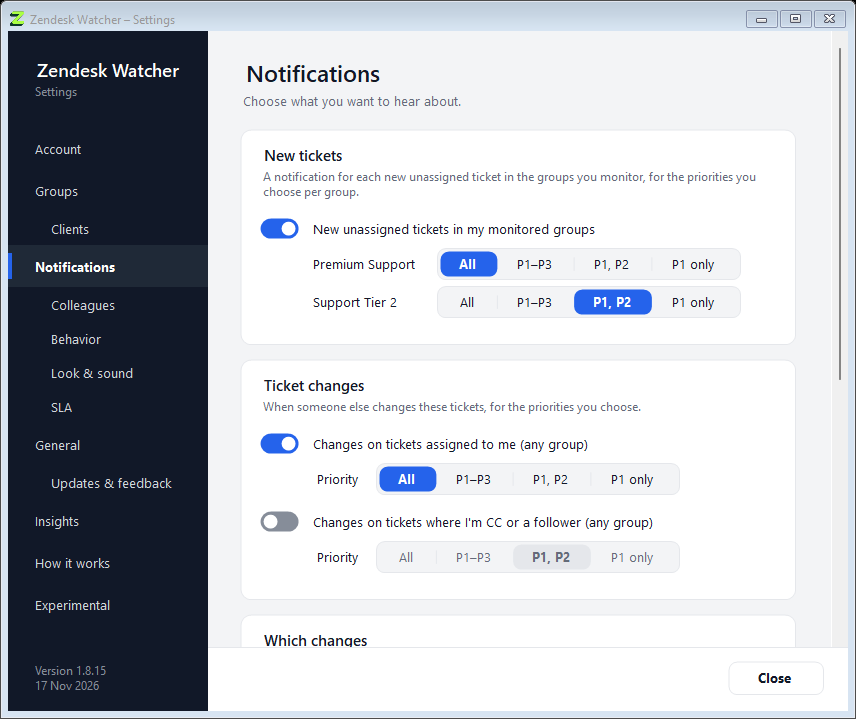
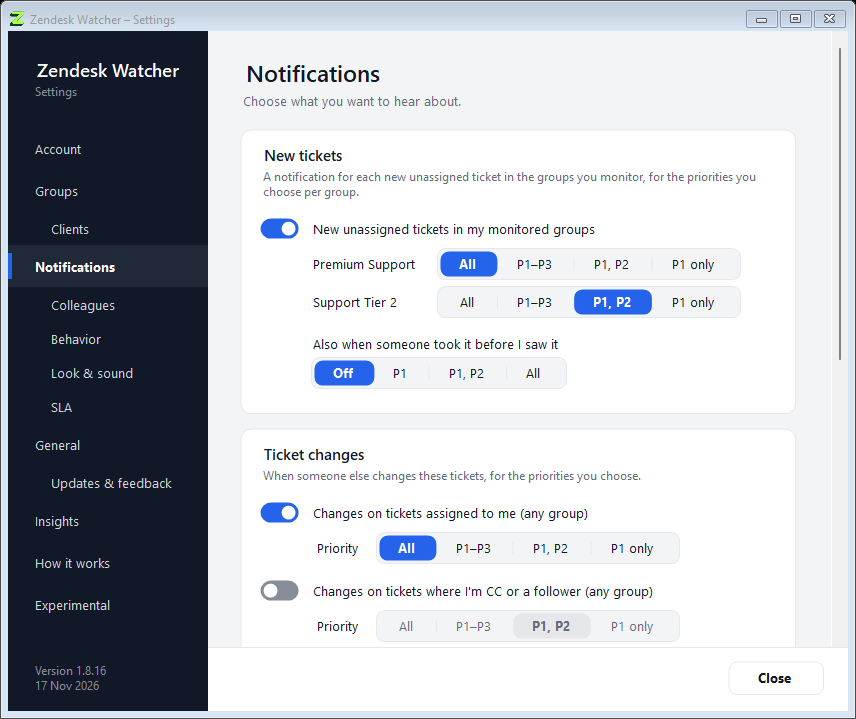
1.8.17: Tickets taken before the app saw them
- Notifications → New tickets: "Also when someone took it before I saw it" (Off · P1 · P1, P2 · All,
  off by default). Each check also searches recently created, already assigned tickets per group;
  the audit history tells who took it and how fast (created-assigned tickets are skipped), shown as
  "Already taken" with "· solved"/"· closed" when done.
- Muted clients stay quiet, Important ones always come; working hours apply. How it works, README,
  GUIDE and the Notifications screenshot updated.

Changed region(s): [[0.3037, 0.459, 0.7593, 0.9179]]

diff --git a/Core/Tracking/TicketWatcher.cs b/Core/Tracking/TicketWatcher.cs
@@ -198,6 +198,7 @@ public sealed partial class TicketWatcher(Settings settings, ZendeskClient zende
         var now = DateTimeOffset.UtcNow;
         var total = 0;
         var byGroup = new List<(WatchedGroup Group, List<Ticket> Tickets)>();
+        var justBaselined = new HashSet<long>();
         ShowedAlreadyWaiting = false;
 
         // Search finds the candidates, but its index can be stale for hours: a ticket assigned long ago may still
@@ -227,6 +228,8 @@ public sealed partial class TicketWatcher(Settings settings, ZendeskClient zende
             // All are recorded as seen (so ticking a client again later doesn't report its old tickets as new), but
             // muted clients (and "only urgent" ones below High) neither notify nor count (Clients page).
             var isBaseline = _state.BaselinedGroups.Add(group.Id);
+            if (isBaseline)
+                justBaselined.Add(group.Id);
             var fresh = tickets.Where(t => !_state.SeenUnassigned.ContainsKey(t.Id)).OrderBy(t => t.CreatedAt).ToList();
             foreach (var ticket in tickets)
                 _state.SeenUnassigned[ticket.Id] = now;
@@ -296,14 +299,73 @@ public sealed partial class TicketWatcher(Settings settings, ZendeskClient zende
                 await ShowNewTicketAsync(ticket, group, ct);
         }
 
+        await CheckTakenQuicklyAsync(justBaselined, now, ct);
+
         // Forget tickets that have not been unassigned for a while, so they notify again if they come back.
         foreach (var id in _state.SeenUnassigned.Where(kv => now - kv.Value > ForgetUnassignedAfter).Select(kv => kv.Key).ToList())
             _state.SeenUnassigned.Remove(id);
+        foreach (var id in _state.TakenQuickly.Where(kv => now - kv.Value > ForgetUnassignedAfter).Select(kv => kv.Key).ToList())
+            _state.TakenQuickly.Remove(id);
         foreach (var id in _state.QuietPriority.Keys.Where(id => !_state.SeenUnassigned.ContainsKey(id)).ToList())
             _state.QuietPriority.Remove(id);
 
         UnassignedCount = total;
         _unassigned = byGroup;
+    }
+
+    /// <summary>How far back to look for tickets someone took between two checks (the search index lags a few minutes).</summary>
+    private static readonly TimeSpan TakenQuicklyWindow = TimeSpan.FromMinutes(30);
+
+    /// <summary>
+    /// New tickets someone took between two checks, before they were ever seen unassigned: for the priorities chosen under
+    /// Notifications → New tickets, an "Already taken" notification anyway, saying who took it and how fast (for managers
+    /// who don't want to miss a P1). One search per group, plus each candidate's history, only while it's switched on.
+    /// Muted clients stay quiet, important ones always come; my working hours count as for new tickets.
+    /// </summary>
+    private async Task CheckTakenQuicklyAsync(IReadOnlySet<long> justBaselined, DateTimeOffset now, CancellationToken ct)
+    {
+        if (settings.TakenQuicklyPriorities.Count == 0 || !settings.NotifyUnassigned)
+            return;
+        var since = now - TakenQuicklyWindow;
+        bool? offWork = null;
+        foreach (var group in settings.WatchedGroups.Where(g => !g.IsNoGroup && !justBaselined.Contains(g.Id)))
+        {
+            List<Ticket> found;
+            try
+            {
+                found = await zendesk.GetAssignedTicketsCreatedSinceAsync(group.Id, since, ct);
+            }
+            catch (HttpRequestException ex)
+            {
+                Log.Error($"Could not look for quickly taken tickets {group.Describe()}", ex);
+                continue;
+            }
+            foreach (var ticket in found.Where(t => t.CreatedAt > since && t.AssigneeId is not null && t.GroupId == group.Id &&
+                                                    !_state.SeenUnassigned.ContainsKey(t.Id) && !_state.TakenQuickly.ContainsKey(t.Id)))
+            {
+                _state.TakenQuickly[ticket.Id] = now; // looked at once, whatever comes of it
+                var important = IsImportant(ticket);
+                if (!important && (!TicketRules.MatchesPriority(ticket.Priority, settings.TakenQuicklyPriorities) ||
+                                   !TicketRules.IsWantedClient(ticket, ClientMode(ticket))))
+                    continue;
+                if (!important && settings.OnlyNotifyDuringMyHours && (offWork ??= await IAmOffWorkAsync(ct)))
+                    continue;
+
+                // Its history: when it got its first assignee, and from whom. Created assigned: nobody took it.
+                var audits = await zendesk.GetAuditsSinceAsync(ticket.Id, ticket.CreatedAt.AddSeconds(-1), ct);
+                if (TicketRules.FirstAssignment(audits) is not { } taken)
+                    continue;
+                var assignee = await zendesk.GetUserNameAsync(taken.AssigneeId, ct);
+                var assigner = taken.ByRule || taken.AuthorId == taken.AssigneeId ? null : await zendesk.GetUserNameAsync(taken.AuthorId, ct);
+                Log.Info($"Ticket #{ticket.Id} {group.Describe()} was taken before it was seen unassigned ({ticket.Priority}, after {(taken.At - ticket.CreatedAt).TotalMinutes:0} min)");
+                // Solving needs an assignee, so a ticket solved or closed straight away is found here too: the line says so.
+                var body = await CreatedLineAsync(ticket, ct) + "\n" + TicketRules.TakenLine(assignee, assigner, taken.ByRule, taken.At - ticket.CreatedAt) +
+                           (ticket.IsOpen ? "" : $" · {ticket.Status}");
+                Show(await WithClientAsync(new NotificationContent(NotificationKind.NewTicket, "Already taken",
+                    $"#{ticket.Id} {TextCleanup.Plain(ticket.Subject)}", body, ticket.Id, ticket.Priority, GroupLabel(group))
+                    { EventTime = ticket.CreatedAt, IsTicketNotification = true }, ticket, group, ct));
+            }
+        }
     }
 
     private async Task ShowNewTicketAsync(Ticket ticket, WatchedGroup group, CancellationToken ct, string heading = "New ticket")

diff --git a/SettingsPages/NotificationsPage.cs b/SettingsPages/NotificationsPage.cs
@@ -30,6 +30,11 @@ internal sealed class NotificationsPage : SettingsPage
     };
     private readonly GroupsPage _groups;
 
+    /// <summary>The priorities that notify even when someone took the ticket before the app saw it unassigned.</summary>
+    private static readonly (string Label, string[] Priorities)[] TakenQuicklyChoices =
+        [("Off", []), ("P1", ["urgent"]), ("P1, P2", ["urgent", "high"]), ("All", Settings.AllPriorities)];
+    private readonly ChoicePills _takenQuickly = new([.. TakenQuicklyChoices.Select(c => c.Label)]) { AccessibleName = "Also when someone took it before I saw it" };
+
     /// <summary>Groups with fewer priorities than all, as chosen here (also for groups not shown right now).</summary>
     private Dictionary<long, List<string>> _newPriorities = [];
 
@@ -41,6 +46,12 @@ internal sealed class NotificationsPage : SettingsPage
             "priorities you choose per group.", Kit.CardWidth);
         unassigned.Body.Controls.Add(_notifyUnassigned);
         unassigned.Body.Controls.Add(_groupPriorities);
+        // Tickets someone took between two checks (never seen unassigned): off for most, P1 for managers.
+        var takenLabel = Theme.Label("Also when someone took it before I saw it");
+        takenLabel.Margin = new Padding(50, 8, 0, 0);
+        _takenQuickly.Margin = new Padding(50, 4, 0, 6);
+        unassigned.Body.Controls.Add(takenLabel);
+        unassigned.Body.Controls.Add(_takenQuickly);
         Panel.Controls.Add(unassigned);
 
         var mine = new Card("Ticket changes", "When someone else changes these tickets, for the priorities you choose.", Kit.CardWidth);
@@ -83,6 +94,7 @@ internal sealed class NotificationsPage : SettingsPage
         _trackMine.CheckedChanged += (_, _) => UpdateChangeTypes();
         _trackCc.CheckedChanged += (_, _) => UpdateChangeTypes();
         _notifyUnassigned.CheckedChanged += (_, _) => UpdateChangeTypes();
+        _takenQuickly.SelectedIndexChanged += (_, _) => Changed();
         _myPriorities.Changed += Changed;
         _ccPriorities.Changed += Changed;
         _myDays.Changed += Changed;
@@ -104,6 +116,9 @@ internal sealed class NotificationsPage : SettingsPage
         _priority.Checked = settings.NotifyPriorityChanges;
         _automatic.Checked = settings.NotifyAutomaticChanges;
         _newPriorities = settings.NewTicketPriorities.ToDictionary(kv => kv.Key, kv => kv.Value.ToList());
+        // By the lowest priority in the list, like the other priority choices (none: Off).
+        var taken = settings.TakenQuicklyPriorities;
+        _takenQuickly.SelectedIndex = taken.Count == 0 ? 0 : taken.Contains("low") || taken.Contains("normal") ? 3 : taken.Contains("high") ? 2 : 1;
         ShowGroupPriorities();
         _myPriorities.Selected = settings.MyTicketPriorities;
         _ccPriorities.Selected = settings.CcTicketPriorities;
@@ -130,6 +145,7 @@ internal sealed class NotificationsPage : SettingsPage
         // Only the monitored groups' choices are kept (one unticked and ticked again starts at all priorities).
         var monitored = _groups.MonitoredGroups().Select(g => g.Id).ToHashSet();
         s.NewTicketPriorities = _newPriorities.Where(kv => monitored.Contains(kv.Key)).ToDictionary(kv => kv.Key, kv => kv.Value.ToList());
+        s.TakenQuicklyPriorities = [.. TakenQuicklyChoices[_takenQuickly.SelectedIndex].Priorities];
         s.MyTicketPriorities = _myPriorities.Selected;
         s.CcTicketPriorities = _ccPriorities.Selected;
         s.OnlyNotifyDuringMyHours = _onlyMyHours.Checked;
@@ -190,6 +206,7 @@ internal sealed class NotificationsPage : SettingsPage
 
     private void UpdateChangeTypes()
     {
+        _takenQuickly.Enabled = _notifyUnassigned.Checked;
         foreach (var (_, choice) in _groupChoices)
             choice.Enabled = _notifyUnassigned.Checked;
         foreach (var box in new[] { _replies, _notes, _status, _assignment, _priority, _automatic })

diff --git a/tests/ZendeskWatcher.Tests/Fakes.cs b/tests/ZendeskWatcher.Tests/Fakes.cs
@@ -91,6 +91,27 @@ internal sealed partial class FakeZendesk : IZendeskSession
         return ticket;
     }
 
+    /// <summary>
+    /// A ticket that came in <paramref name="minutesAgo"/> minutes ago in group 10 and that <paramref name="by"/> assigned to
+    /// <paramref name="to"/> a minute later, before any check saw it unassigned (with its history). With
+    /// <paramref name="createdAssigned"/> it had its assignee from the start.
+    /// </summary>
+    public Ticket AddTakenQuickly(long id, string priority, long by, long to, int minutesAgo = 3, bool createdAssigned = false)
+    {
+        var created = DateTimeOffset.UtcNow.AddMinutes(-minutesAgo);
+        var ticket = new Ticket { Id = id, Subject = "Site down", Status = "open", Priority = priority, GroupId = 10, AssigneeId = to, CreatedAt = created, UpdatedAt = created.AddMinutes(1) };
+        Tickets[id] = ticket;
+        var create = new AuditEvent { Type = "Create", FieldName = "assignee_id", Value = createdAssigned ? JsonSerializer.SerializeToElement(to.ToString()) : null };
+        Audits[id] = [new Audit { Id = 1, AuthorId = by, CreatedAt = created, Events = [create] }];
+        if (!createdAssigned)
+            Audits[id].Add(new Audit
+            {
+                Id = 2, AuthorId = by, CreatedAt = created.AddMinutes(1),
+                Events = [new AuditEvent { Type = "Change", FieldName = "assignee_id", PreviousValue = null, Value = JsonSerializer.SerializeToElement(to.ToString()) }]
+            });
+        return ticket;
+    }
+
     /// <summary>An open ticket assigned to <paramref name="assignee"/> (me by default).</summary>
     public Ticket AddAssigned(long id, string? priority, long? assignee = null, string subject = "Something broke")
     {
@@ -205,6 +226,11 @@ internal sealed partial class FakeZendesk : IZendeskSession
         if (AssigneeQuery().Match(query) is { Success: true } assignee) // Colleagues: an agent's recently updated tickets
             return Tickets.Values.Where(t => t.AssigneeId == long.Parse(assignee.Groups[1].Value)).OrderByDescending(t => t.UpdatedAt).ToList();
         var match = GroupQuery().Match(query);
+        if (query.Contains("-assignee:none") && CreatedQuery().Match(query) is { Success: true } created && match.Success) // tickets taken quickly
+        {
+            var since = DateTimeOffset.Parse(created.Groups[1].Value, System.Globalization.CultureInfo.InvariantCulture);
+            return Tickets.Values.Where(t => t.AssigneeId is not null && t.CreatedAt > since && t.GroupId == long.Parse(match.Groups[1].Value)).ToList();
+        }
         if (query.Contains("created>") && match.Success) // Settings → Groups → Clients: a group's recent tickets
             return Tickets.Values.Where(t => t.GroupId == (match.Groups[1].Value == "none" ? null : long.Parse(match.Groups[1].Value))).ToList();
         if (query.Contains("-assignee:none") && match.Success) // Help colleagues: assigned tickets before solved, in a group
@@ -224,6 +250,9 @@ internal sealed partial class FakeZendesk : IZendeskSession
         var ids = query.Split("ids=")[1].Split('&')[0].Split(',').Select(long.Parse);
         return ids.Where(Tickets.ContainsKey).Select(id => Tickets[id]).ToList();
     }
+
+    [GeneratedRegex(@"created>([^\s&]+)")]
+    private static partial Regex CreatedQuery();
 
     [GeneratedRegex(@"group:(\d+|none)")]
     private static partial Regex GroupQuery();

diff --git a/Core/Tracking/TicketRules.cs b/Core/Tracking/TicketRules.cs
@@ -297,6 +297,53 @@ public static class TicketRules
     /// <summary>Someone took the ticket, or it was solved: its new-ticket notification is no longer needed.</summary>
     public static bool IsTaken(Ticket ticket) => ticket.AssigneeId is not null || !ticket.IsOpen;
 
+    /// <summary>
+    /// When a ticket that came in unassigned got its first assignee, by whom (the audit's author), and to whom, from its
+    /// audits. Null when it was created with an assignee already (an agent's own ticket, an assignment rule at creation)
+    /// or never assigned: then nobody "took" it.
+    /// </summary>
+    public static (DateTimeOffset At, long AuthorId, long AssigneeId, bool ByRule)? FirstAssignment(IEnumerable<Audit> audits)
+    {
+        var ordered = audits.OrderBy(a => a.CreatedAt).ToList();
+        foreach (var audit in ordered)
+            foreach (var ev in audit.Events.Where(e => e.FieldName == "assignee_id"))
+            {
+                var assignee = UserIdOf(ev.Value);
+                if (ev.Type == "Create")
+                {
+                    if (assignee is not null)
+                        return null; // created assigned
+                    continue;
+                }
+                if (ev.Type == "Change" && assignee is { } id)
+                    return (audit.CreatedAt, audit.AuthorId, id, audit.Via?.Channel == "rule" || ev.Via?.Channel == "rule");
+            }
+        return null;
+    }
+
+    /// <summary>A user id in an audit value: a number, or a number as text; null for none.</summary>
+    private static long? UserIdOf(System.Text.Json.JsonElement? value) => value switch
+    {
+        { ValueKind: System.Text.Json.JsonValueKind.Number } v when v.TryGetInt64(out var n) => n,
+        { ValueKind: System.Text.Json.JsonValueKind.String } v when long.TryParse(v.GetString(), out var n) => n,
+        _ => null
+    };
+
+    /// <summary>
+    /// "**Anna** took it after 2 min", "**Bob** assigned it to **Anna** after 2 min", or "Assigned to **Anna** by a rule
+    /// after 2 min": the line under a ticket someone took before the app saw it unassigned. Names are escaped here.
+    /// </summary>
+    public static string TakenLine(string assignee, string? assigner, bool byRule, TimeSpan after)
+    {
+        var when = after < TimeSpan.FromMinutes(1) ? "within a minute"
+            : after < TimeSpan.FromHours(1) ? $"after {(int)after.TotalMinutes} min"
+            : $"after {(int)after.TotalHours} h {after.Minutes} min";
+        var to = $"**{Markdown.Escape(assignee)}**";
+        return byRule ? $"Assigned to {to} by a rule {when}"
+            : assigner is null || assigner == assignee ? $"{to} took it {when}"
+            : $"**{Markdown.Escape(assigner)}** assigned it to {to} {when}";
+    }
+
     /// <summary>Monday to Friday: the working days unless chosen otherwise.</summary>
     public static readonly DayOfWeek[] Weekdays =
         [DayOfWeek.Monday, DayOfWeek.Tuesday, DayOfWeek.Wednesday, DayOfWeek.Thursday, DayOfWeek.Friday];

diff --git a/tests/ZendeskWatcher.Tests/UnassignedTicketTests.cs b/tests/ZendeskWatcher.Tests/UnassignedTicketTests.cs
@@ -208,6 +208,50 @@ public class UnassignedTicketTests
     }
 
     [Fact]
+    public async Task A_P1_taken_before_any_check_saw_it_still_notifies_when_chosen()
+    {
+        _zendesk.Users[55] = new User { Id = 55, Name = "Anna Agent" };
+        _zendesk.Users[66] = new User { Id = 66, Name = "Bob Lead" };
+        var watcher = await StartAsync();
+        await watcher.PollAsync(CancellationToken.None); // the group's first look
+
+        // Off (the default): nothing, and no extra search.
+        _zendesk.AddTakenQuickly(201, "urgent", by: 55, to: 55);
+        await watcher.PollAsync(CancellationToken.None);
+        Assert.Empty(TakeShown());
+
+        // P1 chosen: an urgent ticket taken between checks comes, once, saying who took it and how fast.
+        _settings.TakenQuicklyPriorities = ["urgent"];
+        _zendesk.AddTakenQuickly(202, "urgent", by: 66, to: 55);
+        _zendesk.AddTakenQuickly(203, "normal", by: 55, to: 55); // not a chosen priority
+        _zendesk.AddTakenQuickly(204, "urgent", by: 55, to: 55, createdAssigned: true); // nobody took it: it came assigned
+        await watcher.PollAsync(CancellationToken.None);
+        var shown = TakeShown();
+        Assert.Equal([201L, 202L], shown.Select(n => n.TicketId!.Value).Order());
+        var assigned = shown.Single(n => n.TicketId == 202);
+        Assert.Equal("Already taken", assigned.Heading);
+        Assert.Contains("**Bob Lead** assigned it to **Anna Agent** after 1 min", assigned.Body);
+        Assert.Contains("**Anna Agent** took it after 1 min", shown.Single(n => n.TicketId == 201).Body);
+        Assert.False(assigned.CanTake);
+
+        await watcher.PollAsync(CancellationToken.None);
+        Assert.Empty(TakeShown()); // not again
+
+        // Solved straight away (solving gives it an assignee): found too, and the line says it's solved.
+        _zendesk.AddTakenQuickly(205, "urgent", by: 55, to: 55).Status = "solved";
+        await watcher.PollAsync(CancellationToken.None);
+        Assert.EndsWith("**Anna Agent** took it after 1 min · solved", Assert.Single(TakeShown()).Body);
+    }
+
+    [Fact]
+    public void Taken_line_says_who_and_how_fast()
+    {
+        Assert.Equal("**Anna** took it within a minute", TicketRules.TakenLine("Anna", null, false, TimeSpan.FromSeconds(20)));
+        Assert.Equal("**Bob** assigned it to **Anna** after 4 min", TicketRules.TakenLine("Anna", "Bob", false, TimeSpan.FromMinutes(4.5)));
+        Assert.Equal("Assigned to **Anna** by a rule after 1 h 5 min", TicketRules.TakenLine("Anna", null, true, TimeSpan.FromMinutes(65)));
+    }
+
+    [Fact]
     public async Task Empty_group_is_quiet_then_a_new_ticket_notifies_once()
     {
         var watcher = await StartAsync();

diff --git a/Core/Zendesk/ZendeskClient.cs b/Core/Zendesk/ZendeskClient.cs
@@ -411,6 +411,13 @@ public sealed class ZendeskClient(Settings settings, IZendeskSession session)
     public Task<List<Ticket>> GetRecentlySolvedTicketsAsync(long groupId, int days, CancellationToken ct) =>
         SearchTicketsAsync($"type:ticket group:{groupId} -assignee:none status>=solved solved>{DateTime.UtcNow.AddDays(-days):yyyy-MM-ddTHH:mm:ssZ}", ct);
 
+    /// <summary>
+    /// Tickets in a group created after <paramref name="since"/> that have an assignee now (any status): the ones someone
+    /// took quickly. Uses the search index, which lags 1-3 minutes.
+    /// </summary>
+    public Task<List<Ticket>> GetAssignedTicketsCreatedSinceAsync(long groupId, DateTimeOffset since, CancellationToken ct) =>
+        SearchTicketsAsync($"type:ticket group:{groupId} -assignee:none created>{since.UtcDateTime:yyyy-MM-ddTHH:mm:ssZ}", ct);
+
     private async Task<List<Ticket>> SearchTicketsAsync(string query, CancellationToken ct, [CallerMemberName] string caller = "") =>
         await GetAllPagesAsync<SearchResponse, Ticket>($"/api/v2/search.json?query={Uri.EscapeDataString(query)}&per_page=100", r => r.Results, ct, caller: caller);
 

diff --git a/SettingsPages/HowItWorksPage.cs b/SettingsPages/HowItWorksPage.cs
@@ -40,6 +40,9 @@ internal sealed class HowItWorksPage : SettingsPage
                 "Each monitored group can notify for all priorities or only the higher ones (Notifications → New tickets); " +
                 "the others stay quiet and aren't counted. If one is raised while still unassigned, it comes then as “Priority " +
                 "raised”. Important clients always come.",
+                "The app checks every few minutes, so a ticket someone takes in between is never seen unassigned. With “Also when " +
+                "someone took it before I saw it” (Notifications → New tickets), those with the priorities you pick come anyway, as " +
+                "“Already taken”, saying who took it and how fast. Off by default; useful for leads who don't want to miss a P1.",
                 "Scheduled ones (a time is booked, nobody owns it yet) say “Scheduled”, also in the summaries.",
                 "No group ticked yet: nothing comes, and Catch up reminds you each time the app starts."
             ]),

diff --git a/Core/Settings.cs b/Core/Settings.cs
@@ -166,6 +166,13 @@ public sealed class Settings
     /// </summary>
     public Dictionary<long, List<string>> NewTicketPriorities { get; set; } = [];
 
+    /// <summary>
+    /// New tickets someone took between two checks, before the app saw them unassigned: with these priorities they notify
+    /// anyway ("Taken by Anna", Notifications → New tickets). Empty: off, the default. For managers who don't want to miss
+    /// a P1 even when it was assigned out within a minute.
+    /// </summary>
+    public List<string> TakenQuicklyPriorities { get; set; } = [];
+
     /// <summary>The priorities of new unassigned tickets that notify in this group.</summary>
     public IReadOnlyList<string> NewTicketPrioritiesFor(long groupId) =>
         NewTicketPriorities.TryGetValue(groupId, out var chosen) && chosen.Count > 0 ? chosen : AllPriorities;

diff --git a/Core/Tracking/WatchState.cs b/Core/Tracking/WatchState.cs
@@ -14,6 +14,9 @@ public sealed class WatchState
     /// <summary>Unassigned tickets kept quiet for a priority not chosen -> that priority, to notify once one is raised.</summary>
     public Dictionary<long, string> QuietPriority { get; set; } = [];
 
+    /// <summary>Tickets someone took before the app saw them unassigned, already looked at -> when (Notifications → New tickets).</summary>
+    public Dictionary<long, DateTimeOffset> TakenQuickly { get; set; } = [];
+
     /// <summary>Groups whose current unassigned tickets were recorded silently on their first poll.</summary>
     public HashSet<long> BaselinedGroups { get; set; } = [];
 

diff --git a/tests/ZendeskWatcher.Tests/SettingsWindowTests.cs b/tests/ZendeskWatcher.Tests/SettingsWindowTests.cs
@@ -39,6 +39,7 @@ public class SettingsWindowTests
         GuessPriority = true,
         QuietThankYous = true,
         SlaOverrides = [new SlaOverride { Type = "slapremium", Priority = "high", FirstReply = true, Minutes = 120 }],
+        TakenQuicklyPriorities = ["urgent"],
         MyTicketPriorities = ["urgent"],
         CcTicketPriorities = ["urgent", "high", "normal"],
         NewTicketStyle = new NotificationStyle { Sound = ToastSound.ChipBlip },

diff --git a/README.md b/README.md
@@ -45,7 +45,7 @@ On first start the **Settings** window opens, with a short guide at the top that
 
 1. **Account:** enter the subdomain (`yourcompany` for yourcompany.zendesk.com) and click **Sign in**. A window opens with the Zendesk/Okta login. It closes on its own once you're signed in.
 2. **Groups:** tick the groups to monitor. **(No group)** covers tickets with neither a group nor an assignee. The unassigned count of the monitored groups shows on the tray icon. On **Clients** (under Groups) untick clients you don't need to hear about (or click **Options ▾** on a notification's client line); everyone is included by default, new clients too. Point at a client to see the products Zendesk lists for it; the filter finds products too (Zendesk's list is often out of date, so it's only a hint).
-3. **Notifications:** choose whether new unassigned tickets notify you, and for which priorities per group (All, P1–P3, P1 and P2, or P1 only), which changes on your own tickets notify you, and your working hours. Below it: **Colleagues**, **Behavior** (how long notifications stay: Short, Normal or Long; snooze), **Look & sound** (style, sounds, an optional glow at the screen edge for the most urgent ones, and how they appear: below each other, stacked like cards, peeking from the screen edge, a pill at the top, a ticker at the screen edge, or "achievement unlocked") and **SLA**.
+3. **Notifications:** choose whether new unassigned tickets notify you, and for which priorities per group (All, P1–P3, P1 and P2, or P1 only), whether to hear about tickets someone took before the app saw them (off by default; e.g. P1 for leads), which changes on your own tickets notify you, and your working hours. Below it: **Colleagues**, **Behavior** (how long notifications stay: Short, Normal or Long; snooze), **Look & sound** (style, sounds, an optional glow at the screen edge for the most urgent ones, and how they appear: below each other, stacked like cards, peeking from the screen edge, a pill at the top, a ticker at the screen edge, or "achievement unlocked") and **SLA**.
 4. **Insights** shows what's waiting now, your team's workload in your region, and how you used notifications in the last 30 days. **Experimental** has two optional extras worked out on your PC: a priority guess and quiet thank-yous.
 
 **How it works**, the last page, explains in plain words when and why each notification appears.

diff --git a/GUIDE.md b/GUIDE.md
@@ -101,7 +101,9 @@ and says which one matched. Zendesk's product list is often out of date, so trea
 
 Choose what you want to hear about: new tickets in your groups (for each group: all priorities, P1–P3, P1 and P2, or
 P1 only), changes on your own tickets and the ones you're CC'd on or follow, which kinds of change, and when you work.
-A ticket kept quiet for its priority notifies as "Priority raised" if someone raises it while it's still unassigned. With "Only notify me during my working hours", notifications
+A ticket kept quiet for its priority notifies as "Priority raised" if someone raises it while it's still unassigned.
+"Also when someone took it before I saw it" (off by default) notifies tickets of the chosen priorities that someone took
+between two checks, as "Already taken", saying who took it and how fast: for leads who don't want to miss a P1. With "Only notify me during my working hours", notifications
 outside them wait for Catch up, unless you're active in Zendesk.
 
 ![Notifications](docs/images/settings-notifications.png)
